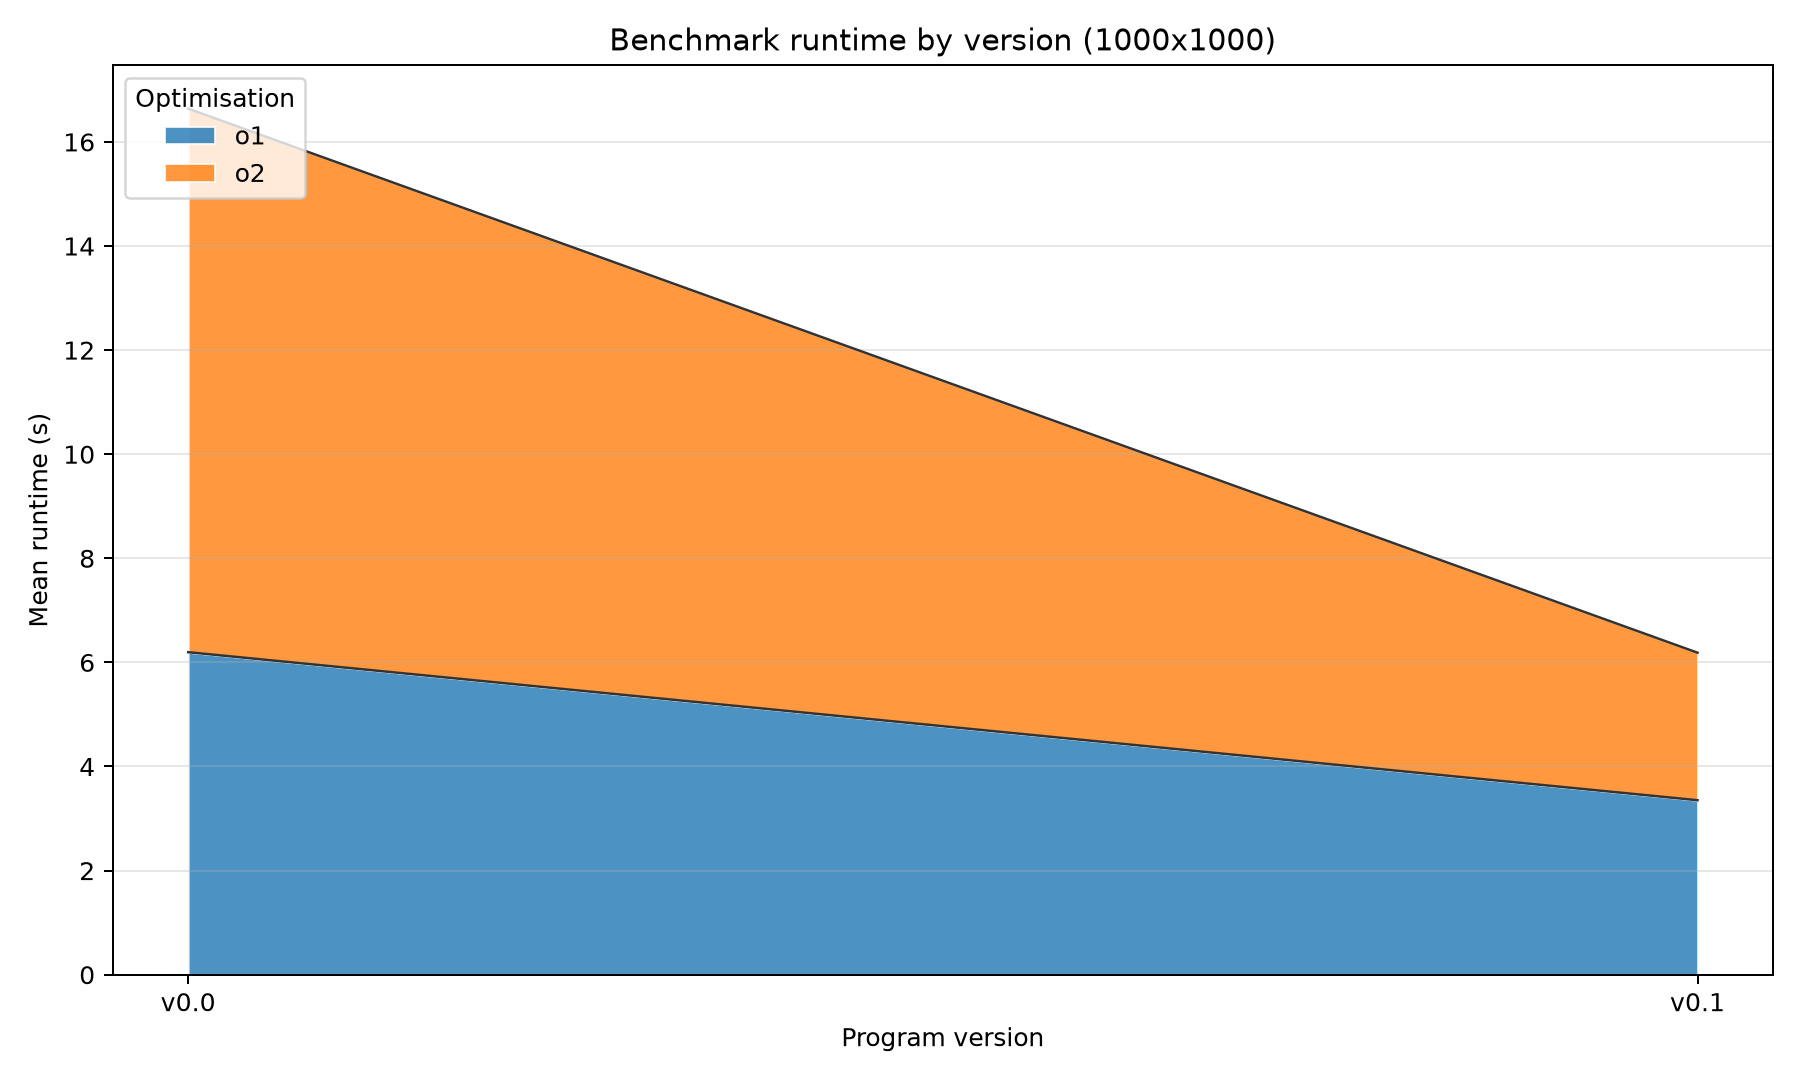
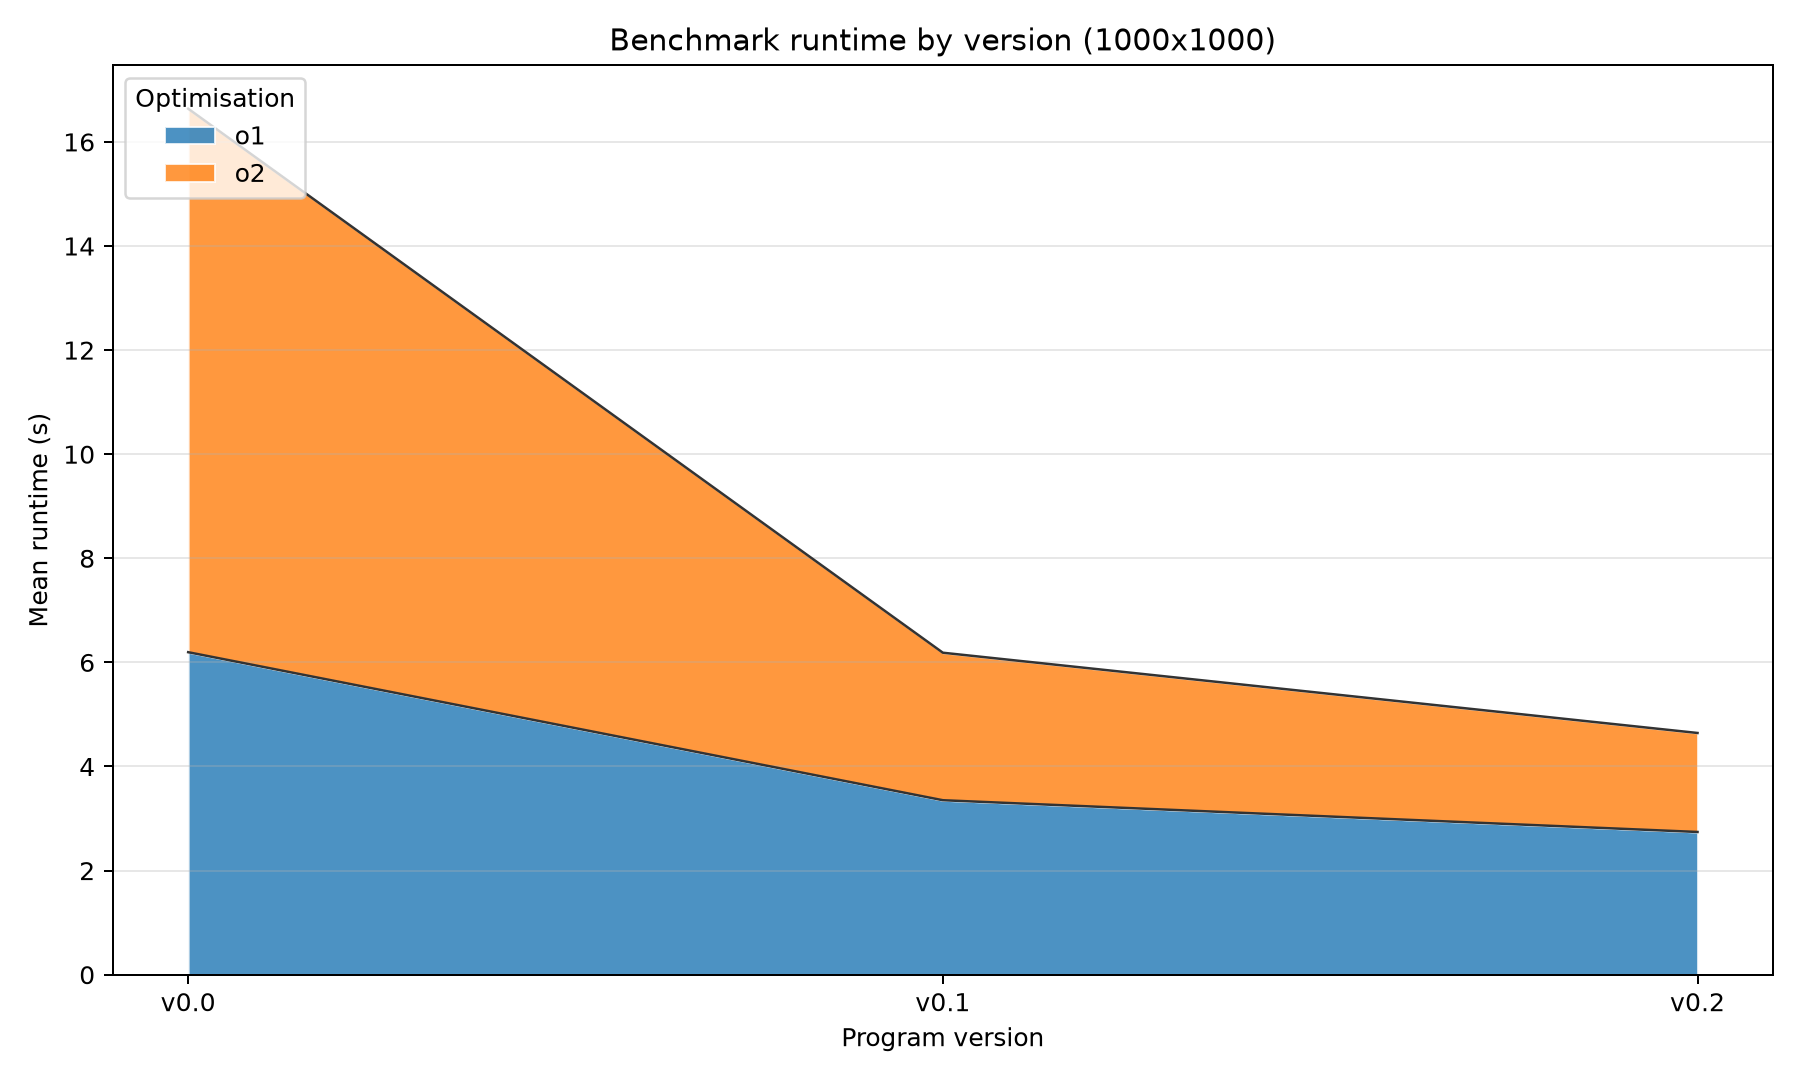
add devlog entry for v0.2

diff --git a/notes/devlog.md b/notes/devlog.md
@@ -30,3 +30,37 @@ found this library to generate prng https://github.com/wjakob/pcg32, it has an o
 After switching out the heavy rng library to the pcg32 one v0.1 at o1 optimisation runs in 3.28s for 1000x1000 grid. for comparison in v0.0 this was at 6.10s so this one change has almost slashed the runtime in half.
 
 # v0.2
+
+This was an easy one, i was accessing the cpu cache NOT in a spacial and temporally favourable manner
+I changed this from
+
+```cpp
+  for (int y = 1; y < grid_size - 1; ++y) {
+    for (int x = 1; x < grid_size - 1; ++x) {
+        auto r = rng.nextFloat();
+        switch (grid[x][y]) {
+```
+
+to
+
+```cpp
+for (int x = 1; x < grid_size - 1; ++x) {
+  for (int y = 1; y < grid_size - 1; ++y) {
+        auto r = rng.nextFloat();
+        switch (grid[x][y]) {
+```
+
+this little change took my solution from 2.78s to 1.86s for 1000x1000 grid at o2 optimisation level
+
+D1 miss rate collapsed from 32.7% → 0.4%
+
+the loop-order fix (x,y → y,x) workied exactly as hoped:
+
+| Metric          |                        v0.1 |                     v0.2 |      Change |
+| --------------- | --------------------------: | -----------------------: | ----------: |
+| D1 miss rate    | 32.7% (27.3% rd / 50.0% wr) | 0.4% (0.3% rd / 0.8% wr) | ~80× better |
+| D1 misses (raw) |               1,380,045,198 |               16,451,695 |  ~84× fewer |
+| Read misses     |                 880,009,705 |                8,416,206 | ~105× fewer |
+| Write misses    |                 500,035,493 |                8,035,489 |  ~62× fewer |
+
+more data at data/cachegrind/cache-test-v0.1-v0.2
